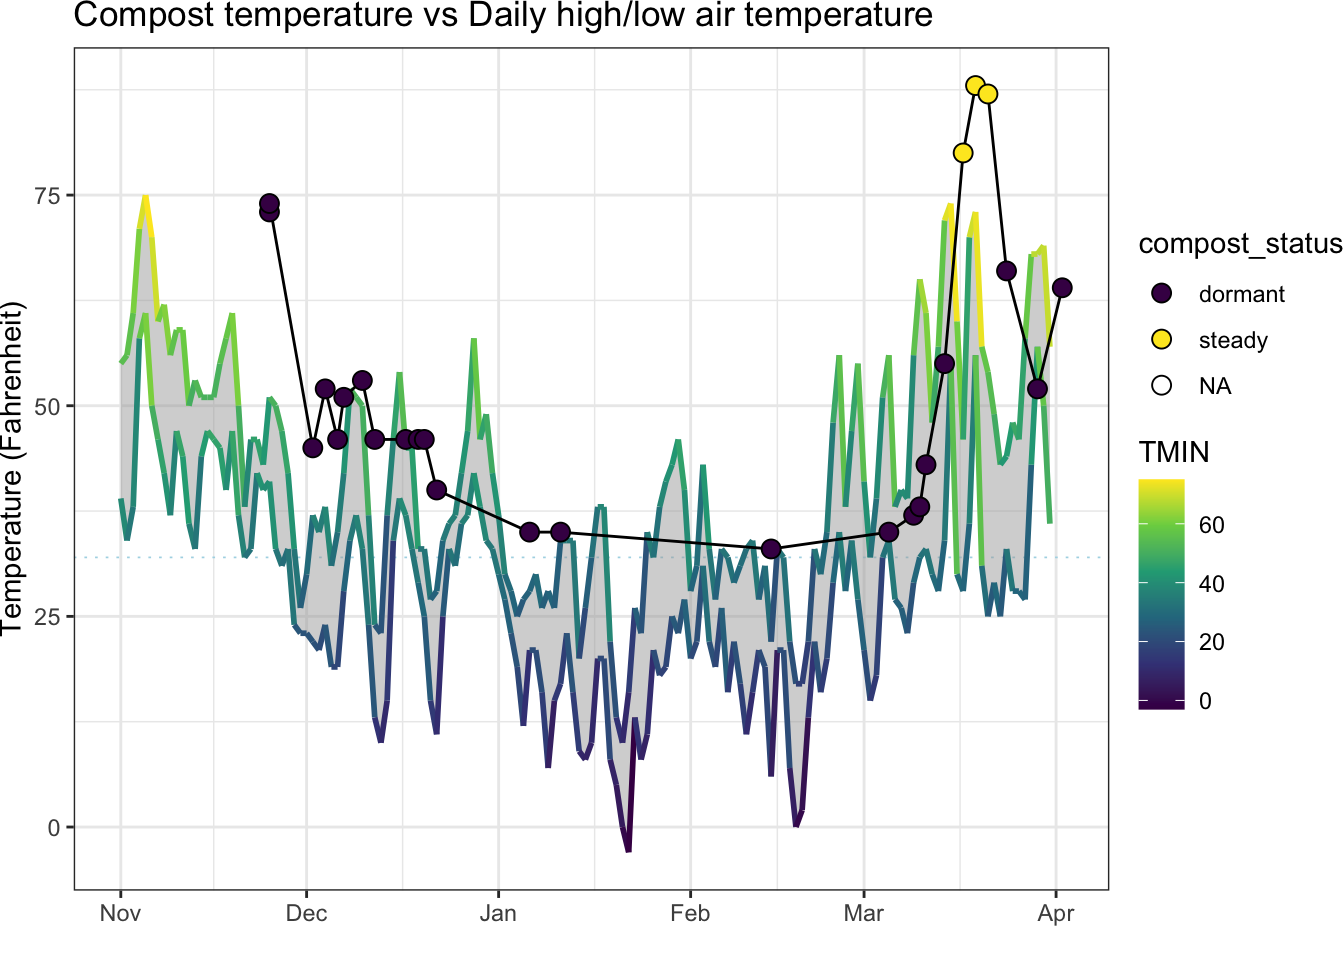
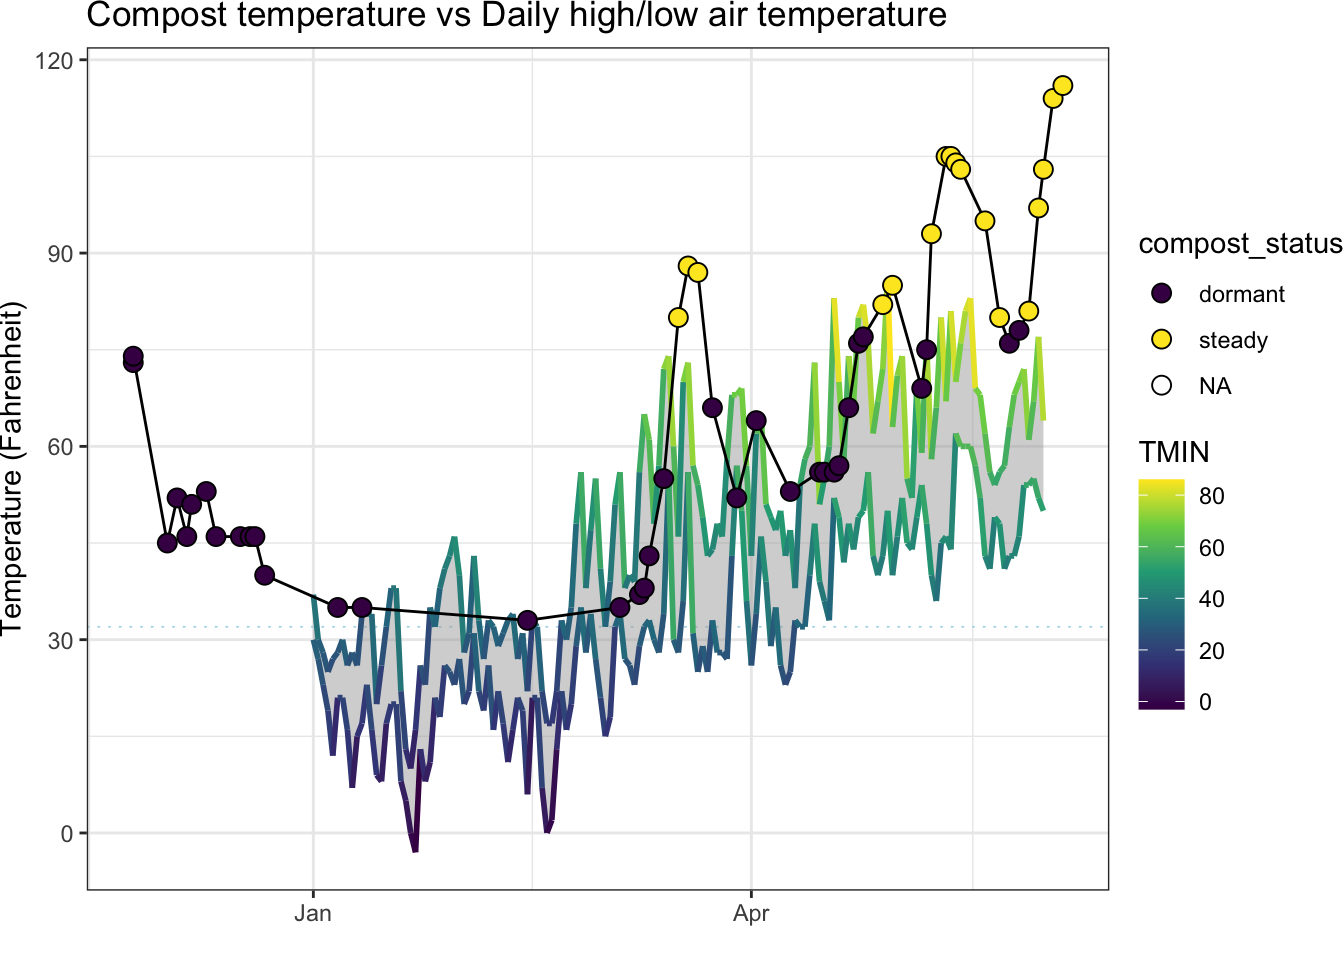
new all-time-high temp of 114F + a slime mold 😎

diff --git a/docs/index.html b/docs/index.html
@@ -158,17 +158,17 @@ pre > code.sourceCode > span > a:first-child::before { text-decoration: underlin
 <span id="cb3-11"><a href="#cb3-11" aria-hidden="true" tabindex="-1"></a>  <span class="fu">labs</span>(<span class="at">x =</span> <span class="st">''</span>, <span class="at">y =</span> <span class="st">'Temperature (Fahrenheit)'</span>, </span>
 <span id="cb3-12"><a href="#cb3-12" aria-hidden="true" tabindex="-1"></a>       <span class="at">title =</span> <span class="st">"Compost temperature vs Daily high/low air temperature"</span>)</span></code><button title="Copy to Clipboard" class="code-copy-button"><i class="bi"></i></button></pre></div>
 <div class="cell-output cell-output-stderr">
-<pre><code>Warning: Removed 1 row containing missing values or values outside the scale range
+<pre><code>Warning: Removed 14 rows containing missing values or values outside the scale range
 (`geom_line()`).
-Removed 1 row containing missing values or values outside the scale range
+Removed 14 rows containing missing values or values outside the scale range
 (`geom_line()`).</code></pre>
 </div>
 <div class="cell-output cell-output-stderr">
-<pre><code>Warning: Removed 127 rows containing missing values or values outside the scale range
+<pre><code>Warning: Removed 113 rows containing missing values or values outside the scale range
 (`geom_line()`).</code></pre>
 </div>
 <div class="cell-output cell-output-stderr">
-<pre><code>Warning: Removed 127 rows containing missing values or values outside the scale range
+<pre><code>Warning: Removed 113 rows containing missing values or values outside the scale range
 (`geom_point()`).</code></pre>
 </div>
 <div class="cell-output-display">
@@ -180,8 +180,8 @@ Removed 1 row containing missing values or values outside the scale range
 <span id="cb7-2"><a href="#cb7-2" aria-hidden="true" tabindex="-1"></a>  <span class="fu">ggplot</span>(<span class="fu">aes</span>(<span class="at">x =</span> date, <span class="at">y =</span> compost_temp_F)) <span class="sc">+</span></span>
 <span id="cb7-3"><a href="#cb7-3" aria-hidden="true" tabindex="-1"></a>  <span class="fu">geom_hline</span>(<span class="at">yintercept =</span> <span class="dv">32</span>, <span class="at">linetype =</span> <span class="st">'dotted'</span>, <span class="at">linewidth =</span> <span class="fl">0.3</span>, <span class="at">color =</span> <span class="st">'lightblue'</span>) <span class="sc">+</span></span>
 <span id="cb7-4"><a href="#cb7-4" aria-hidden="true" tabindex="-1"></a>  <span class="fu">geom_ribbon</span>(<span class="fu">aes</span>(<span class="at">x =</span> date, <span class="at">ymax =</span> TMAX, <span class="at">ymin =</span> TMIN), <span class="at">alpha =</span> <span class="fl">0.5</span>, <span class="at">fill =</span> <span class="st">'darkgrey'</span>) <span class="sc">+</span></span>
-<span id="cb7-5"><a href="#cb7-5" aria-hidden="true" tabindex="-1"></a>  <span class="fu">geom_line</span>(<span class="fu">aes</span>(<span class="at">color=</span>compost_status, <span class="at">group =</span> source_compost), <span class="at">linewidth=</span><span class="fl">0.5</span>) <span class="sc">+</span></span>
-<span id="cb7-6"><a href="#cb7-6" aria-hidden="true" tabindex="-1"></a>  <span class="fu">geom_point</span>(<span class="fu">aes</span>(<span class="at">fill =</span> compost_status, <span class="at">group =</span> source_compost), <span class="at">shape =</span> <span class="dv">21</span>, <span class="at">stroke =</span> <span class="fl">0.5</span>, <span class="at">size =</span> <span class="dv">3</span>) <span class="sc">+</span></span>
+<span id="cb7-5"><a href="#cb7-5" aria-hidden="true" tabindex="-1"></a>  <span class="fu">geom_line</span>(<span class="fu">aes</span>(<span class="at">group =</span> source_compost), <span class="at">linewidth=</span><span class="fl">0.5</span>, <span class="at">color =</span> <span class="st">'#696969'</span>) <span class="sc">+</span></span>
+<span id="cb7-6"><a href="#cb7-6" aria-hidden="true" tabindex="-1"></a>  <span class="fu">geom_point</span>(<span class="fu">aes</span>(<span class="at">fill =</span> compost_status, <span class="at">group =</span> source_compost), <span class="at">color =</span> <span class="st">'#696969'</span>, <span class="at">shape =</span> <span class="dv">21</span>, <span class="at">stroke =</span> <span class="fl">0.5</span>, <span class="at">size =</span> <span class="dv">3</span>) <span class="sc">+</span></span>
 <span id="cb7-7"><a href="#cb7-7" aria-hidden="true" tabindex="-1"></a>  <span class="fu">scale_fill_viridis_d</span>() <span class="sc">+</span></span>
 <span id="cb7-8"><a href="#cb7-8" aria-hidden="true" tabindex="-1"></a>  <span class="fu">scale_color_viridis_d</span>() <span class="sc">+</span></span>
 <span id="cb7-9"><a href="#cb7-9" aria-hidden="true" tabindex="-1"></a>  <span class="fu">labs</span>(<span class="at">x =</span> <span class="st">''</span>, <span class="at">y =</span> <span class="st">'Temperature (Fahrenheit)'</span>, </span>
@@ -189,11 +189,11 @@ Removed 1 row containing missing values or values outside the scale range
 <span id="cb7-11"><a href="#cb7-11" aria-hidden="true" tabindex="-1"></a></span>
 <span id="cb7-12"><a href="#cb7-12" aria-hidden="true" tabindex="-1"></a>plot_temp</span></code><button title="Copy to Clipboard" class="code-copy-button"><i class="bi"></i></button></pre></div>
 <div class="cell-output cell-output-stderr">
-<pre><code>Warning: Removed 127 rows containing missing values or values outside the scale range
+<pre><code>Warning: Removed 113 rows containing missing values or values outside the scale range
 (`geom_line()`).</code></pre>
 </div>
 <div class="cell-output cell-output-stderr">
-<pre><code>Warning: Removed 127 rows containing missing values or values outside the scale range
+<pre><code>Warning: Removed 113 rows containing missing values or values outside the scale range
 (`geom_point()`).</code></pre>
 </div>
 <div class="cell-output-display">
@@ -206,11 +206,11 @@ Removed 1 row containing missing values or values outside the scale range
 <span id="cb10-5"><a href="#cb10-5" aria-hidden="true" tabindex="-1"></a></span>
 <span id="cb10-6"><a href="#cb10-6" aria-hidden="true" tabindex="-1"></a>plot_temp <span class="sc">/</span> plot_obs_time</span></code><button title="Copy to Clipboard" class="code-copy-button"><i class="bi"></i></button></pre></div>
 <div class="cell-output cell-output-stderr">
-<pre><code>Warning: Removed 127 rows containing missing values or values outside the scale range
+<pre><code>Warning: Removed 113 rows containing missing values or values outside the scale range
 (`geom_line()`).
-Removed 127 rows containing missing values or values outside the scale range
+Removed 113 rows containing missing values or values outside the scale range
 (`geom_point()`).
-Removed 127 rows containing missing values or values outside the scale range
+Removed 113 rows containing missing values or values outside the scale range
 (`geom_point()`).</code></pre>
 </div>
 <div class="cell-output-display">

diff --git a/README.md b/README.md
@@ -4,13 +4,19 @@ NOAA data docs: <https://www.ncei.noaa.gov/pub/data/cdo/documentation/GHCND_docu
 
 ### Downloaded weather data from NOAA
 
-The python noaa sdk can only get current observations, not historical observations. Have to manually download historical data.
+The python noaa sdk can only get current observations, not historical observations.
+Have to manually download historical data.
+
+GHCN data for the station at Detroit airport:
+<https://www.ncei.noaa.gov/cdo-web/datasets/GHCND/stations/GHCND:USW00094847/detail>
 
 Select the station and click "Add to cart":
 
-![<https://www.ncei.noaa.gov/cdo-web/datasets/GHCND/stations/GHCND:USW00094847/detail>](img/noaa_add-to-cart.png)
+![](img/noaa_add-to-cart.png)
 
-Select "daily summaries" and the desired date range, then click continue:
+Go to the cart,
+select "Custom GHCN-Daily CSV" and the desired date range,
+then click continue:
 
 ![](img/noaa_cart-daily-sums.png)
 
